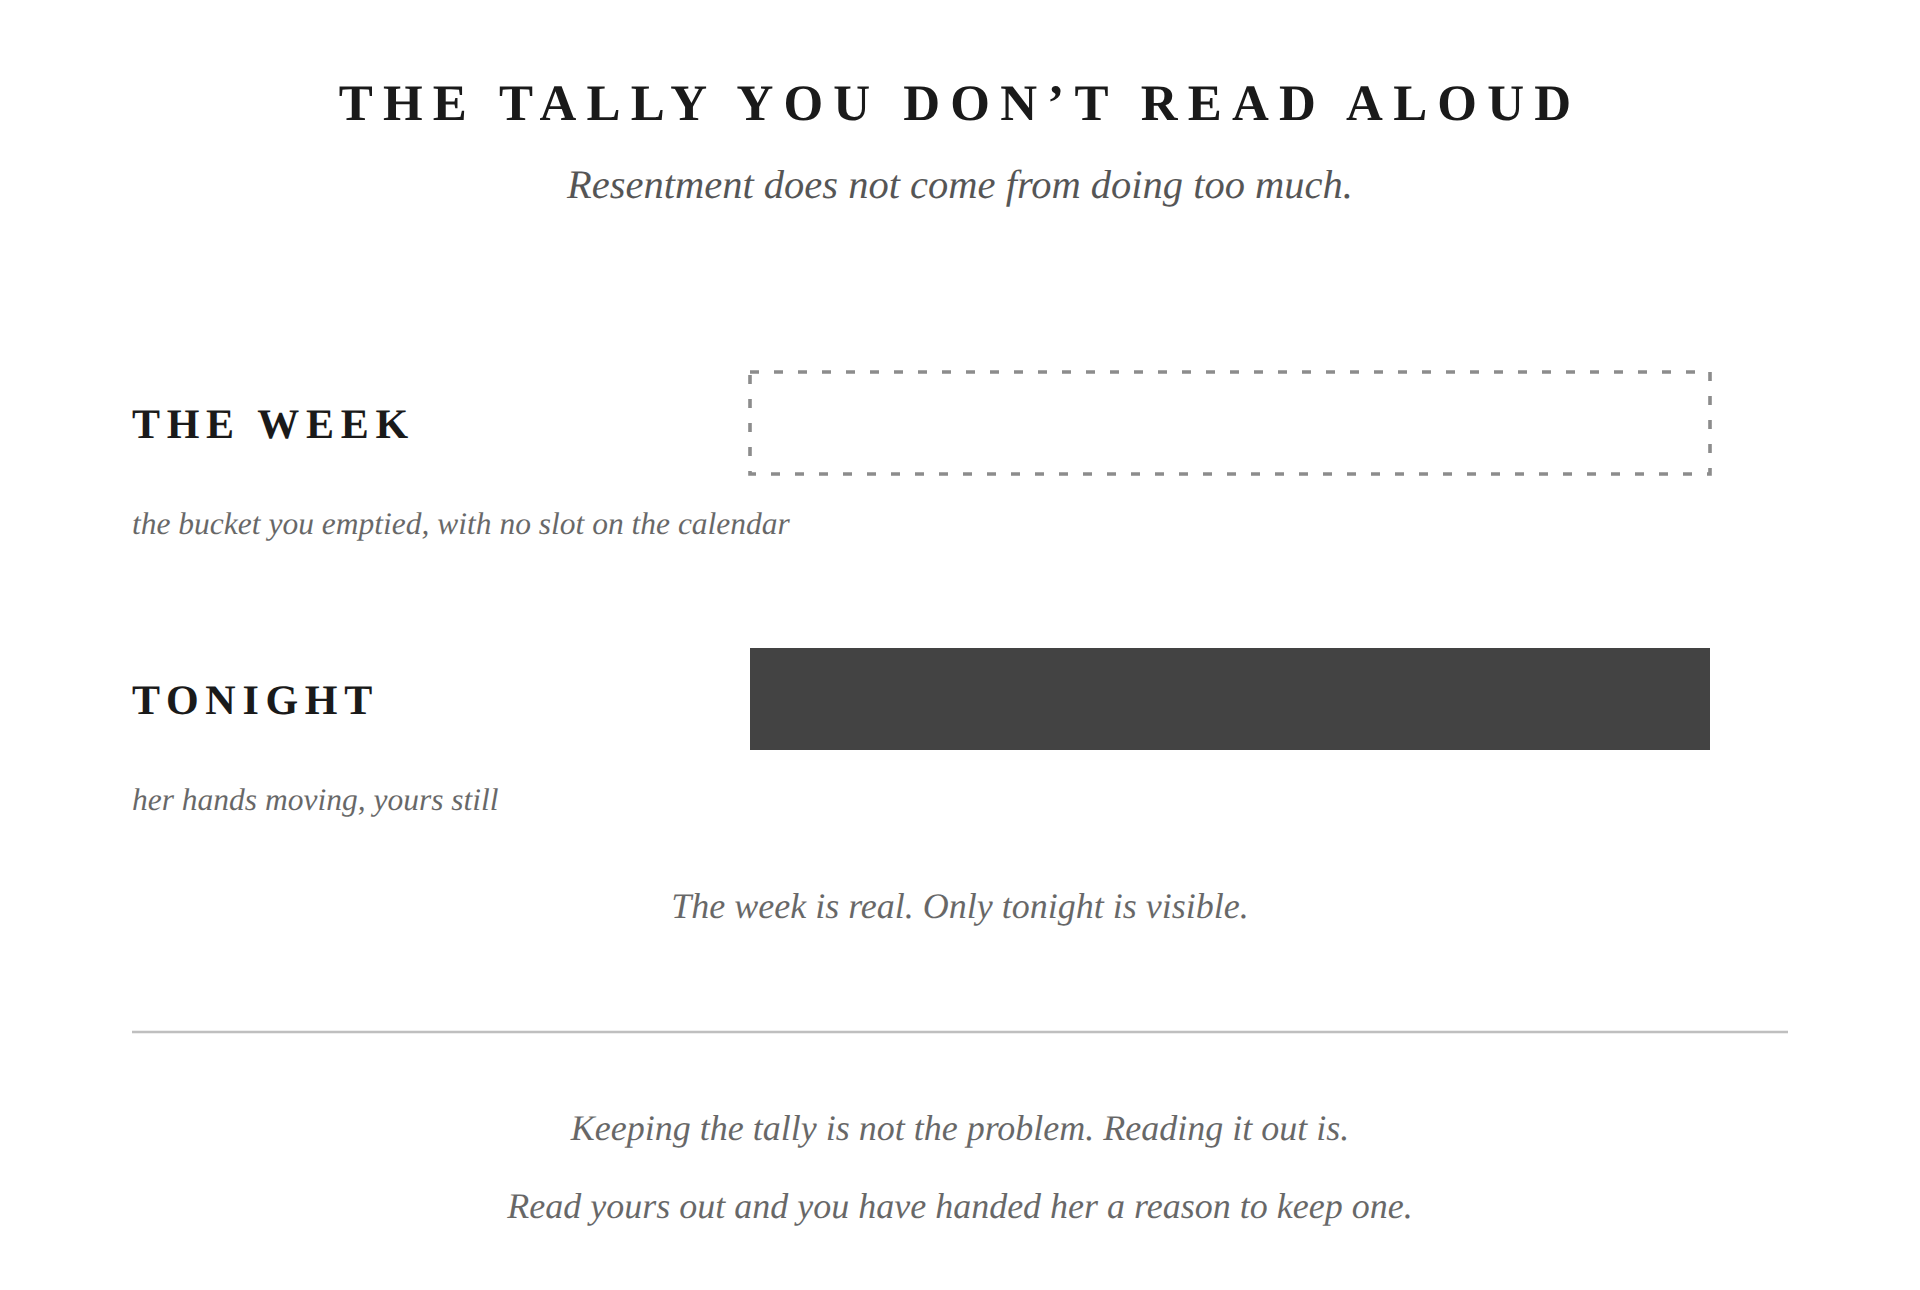
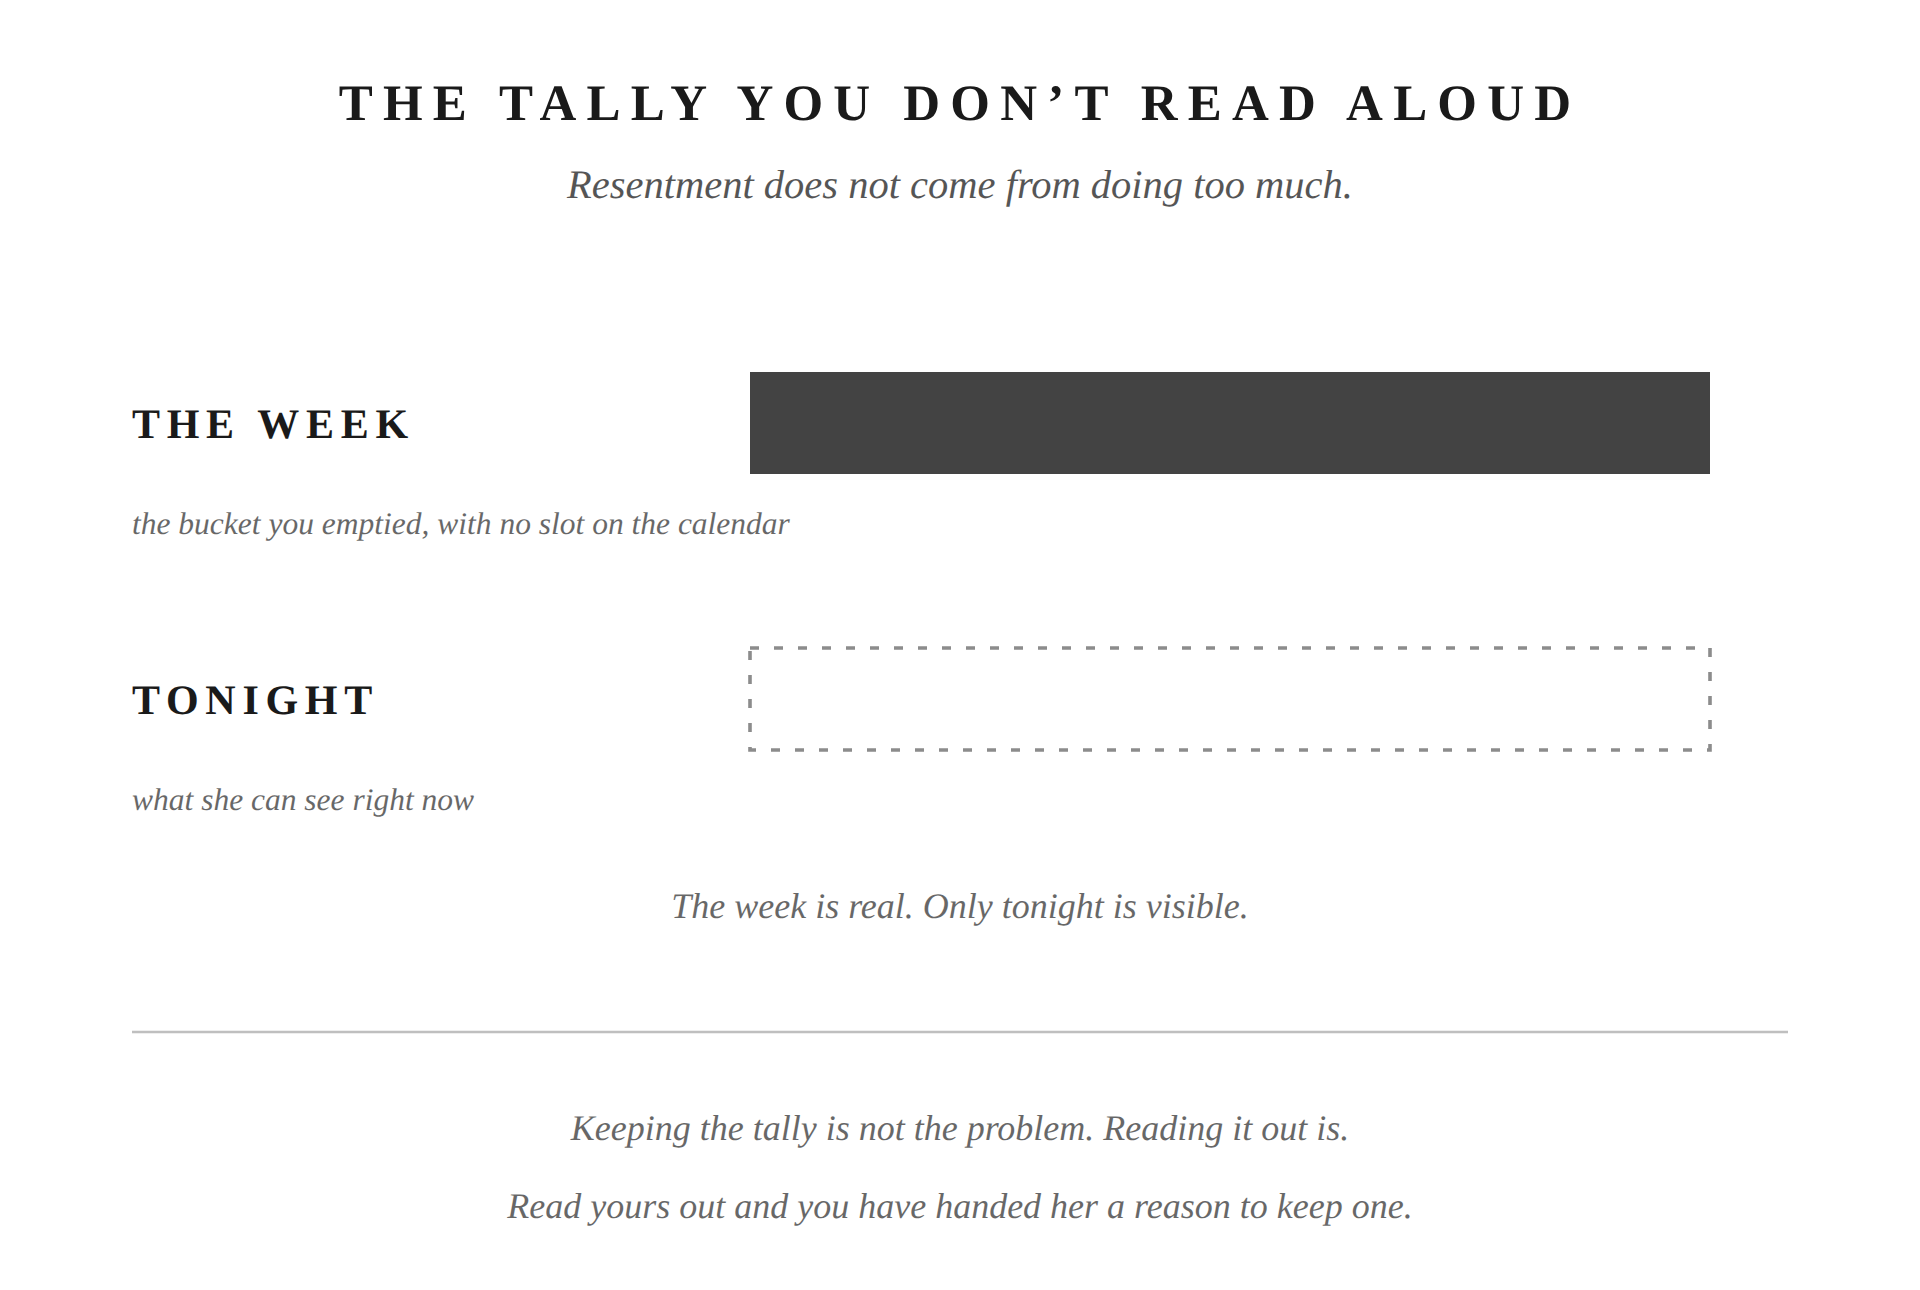
Round 4: Ch5 brief; Ch6 fills swapped (THE WEEK solid, TONIGHT dashed) so the plate no longer reads as self-pity
Claude-Session: https://claude.ai/code/session_01AGHGLRftgBTeqLnoAYhBbF

Changed region(s): [[0.375, 0.4961, 0.9062, 0.5891], [0.375, 0.2791, 0.9062, 0.3721], [0.0625, 0.5891, 0.25, 0.6512]]

diff --git a/runs/ch06/plate-notes.md b/runs/ch06/plate-notes.md
@@ -165,3 +165,67 @@ dashed outline still reads as an outline.
    same filled bar means accruing cost on Ch03 and rehearsal on Ch11. That is a
    book-wide call, not this plate's, and it is the panel's `design-language.md`
    recommendation in section 4.
+
+## Round 4, edits from the standalone sweep (2026-09-20 21:50)
+
+Brief: `runs/design/2026-09-20-plate-standalone-sweep.md`, FAIL 06. The finding
+was polarity, not layout: the solid black bar was captioned "her hands moving,
+yours still," so black read as *her* contribution and the ghost as his, flipping
+the plate into the self-pity position ("I do the invisible work and get no
+credit") that the subtitle exists to deny.
+
+**Applied, exactly three edits.**
+
+1. **Fills swapped.** THE WEEK (y=124) is now the solid bar,
+   `fill="currentColor" opacity=".82"`. TONIGHT (y=216) is now the dashed ghost,
+   `stroke-dasharray="3 5"` at 1.2 stroke, .5 opacity. Geometry, widths and
+   positions are untouched, so the two bars remain the same length: the argument
+   is still visibility and not volume (Round 2's note stands).
+2. **TONIGHT's gloss relabelled** from "her hands moving, yours still" to
+   "what she can see right now."
+3. **Title untouched.** The sweep also asked for a retitle to THE WEEK SHE
+   DIDN'T SEE. Not applied: the title is the distillation's Mechanism line
+   (inbox #065) and a retitle is the author's call, not this desk's.
+
+**Checker output, verbatim:**
+
+```
+$ python3 scripts/plate_check.py runs/ch06/plate.svg --chapter 6
+runs/ch06/plate.svg
+  [ ok ] charset     valid UTF-8, no mojibake
+  [ ok ] geometry    no margin or collision rows
+  [ ok ] anchor-attr anchors set in classes or inline styles only
+  [ ok ] em-dash     none
+  [ ok ] digits      none
+  [ ok ] canvas      640x430
+  [ ok ] title       title 'THE TALLY YOU DON’T READ ALOUD' / aria-label "The Tally You Don't Read Aloud" vs Mechanism "The Tally You Don't Read Aloud"
+  [WARN] grounded    no three-word run of these appears in the chapter, its distillation or plate-brief.md: 'what she can see right now', 'The week is real. Only tonight is visibl', 'Keeping the tally is not the problem. Re'
+  [WARN] captions    6 italic lines against a cap of 4 (2 labels + subtitle + closing line) (over; inbox #066)
+  [ ok ] alignment   5 centred texts on the axis or a shared column; 3 drawing blocks centred or mirrored
+  [ ok ] ink         no rendered ink inside the 40px margin bands (dark px {'left': 0, 'right': 0, 'top': 0, 'bottom': 0})
+```
+
+No FAIL rows. Both WARNs are carried over from Round 3 and neither is new work
+from this round: the caption count is unchanged (inbox #066), and the new gloss
+is the sweep's own wording, adjacent to the chapter's "It fires on what's
+visible right now, in the room, tonight" and the distillation's "What's visible
+right now isn't the same as what's actually true," but not a three-word match.
+
+**What the render showed** (`runs/ch06/pdf/plate.png`). The polarity now reads
+the intended way in the first second: the heavy black mark is the reader's own
+week, and the empty dashed outline is the thin slice of it she is standing in
+front of tonight. The self-pity reading is gone, because the black no longer
+belongs to her. The closing pair then does the work the title promises: the
+solid bar is real and still must not be recited.
+
+**For the author to rule on.**
+
+1. **Dashed now carries "tonight."** In the rest of the set dashed means *not
+   real* or *not in play*; here it means *small and visible*. The caption "The
+   week is real. Only tonight is visible." holds it, but a reader who skips the
+   caption could read the ghost as "tonight doesn't count," which is not the
+   claim. The alternative is dashed for the week and a short solid bar for
+   tonight, which draws size and so drifts toward Ch07. Flagging, not changing.
+2. **The retitle stands open.** The sweep's collision finding against Ch07 (both
+   plates titled around a tally) is unresolved until he rules on the Mechanism
+   line.

diff --git a/runs/ch05/plate-brief.md b/runs/ch05/plate-brief.md
@@ -1,0 +1,26 @@
+# Plate brief, Chapter 5
+
+Generated by scripts/plate_brief.py on 2026-09-20 21:49 from books/the-stoic-husband/chapters/ch05/distillation.md and books/the-stoic-husband/chapters/ch05/refined.md. Nothing here is
+invented; a plate may use these words and the chapter's, and nothing else.
+The Author additions section is the one place words from the author's own
+mouth are recorded, with the date; plate_check.py's grounded row reads it.
+
+**Title (the Mechanism, word for word):** The Remaining Nails
+**Conversation sentence:** The fight ends before the real thing gets said. That's not resolution. That's how a man becomes small without deciding to.
+**Lesson:** *Parrhesia*: the Stoic discipline of speaking plainly, without dressing it up or managing how it lands. Whether she receives it the way you hoped is a preferred indifferent: something to want, not something you get to control.
+**Challenge:** Calling a fight "over" once it goes quiet, without the real thing ever actually getting said, isn't resolution. It's deferred conflict, with interest.
+**Anchor image (metaphor_family):** none declared; find the chapter's one recurring image in the prose
+
+## The chapter's own recurring words
+
+part, because, chapter, fight, you're, small, something, said, feel, four, paragraph, you've, weather, back, whether, already, gets, temperature, that's, time, things, courage, pass, count, transition, clean, becoming, between, question, don't
+
+## The standard
+
+A man who never read the chapter looks at the plate on his phone for ten
+seconds. What he takes away is the Conversation sentence, or the plate has
+failed. The drawing carries the argument; captions name what is drawn.
+
+## Author additions
+
+(none yet)
